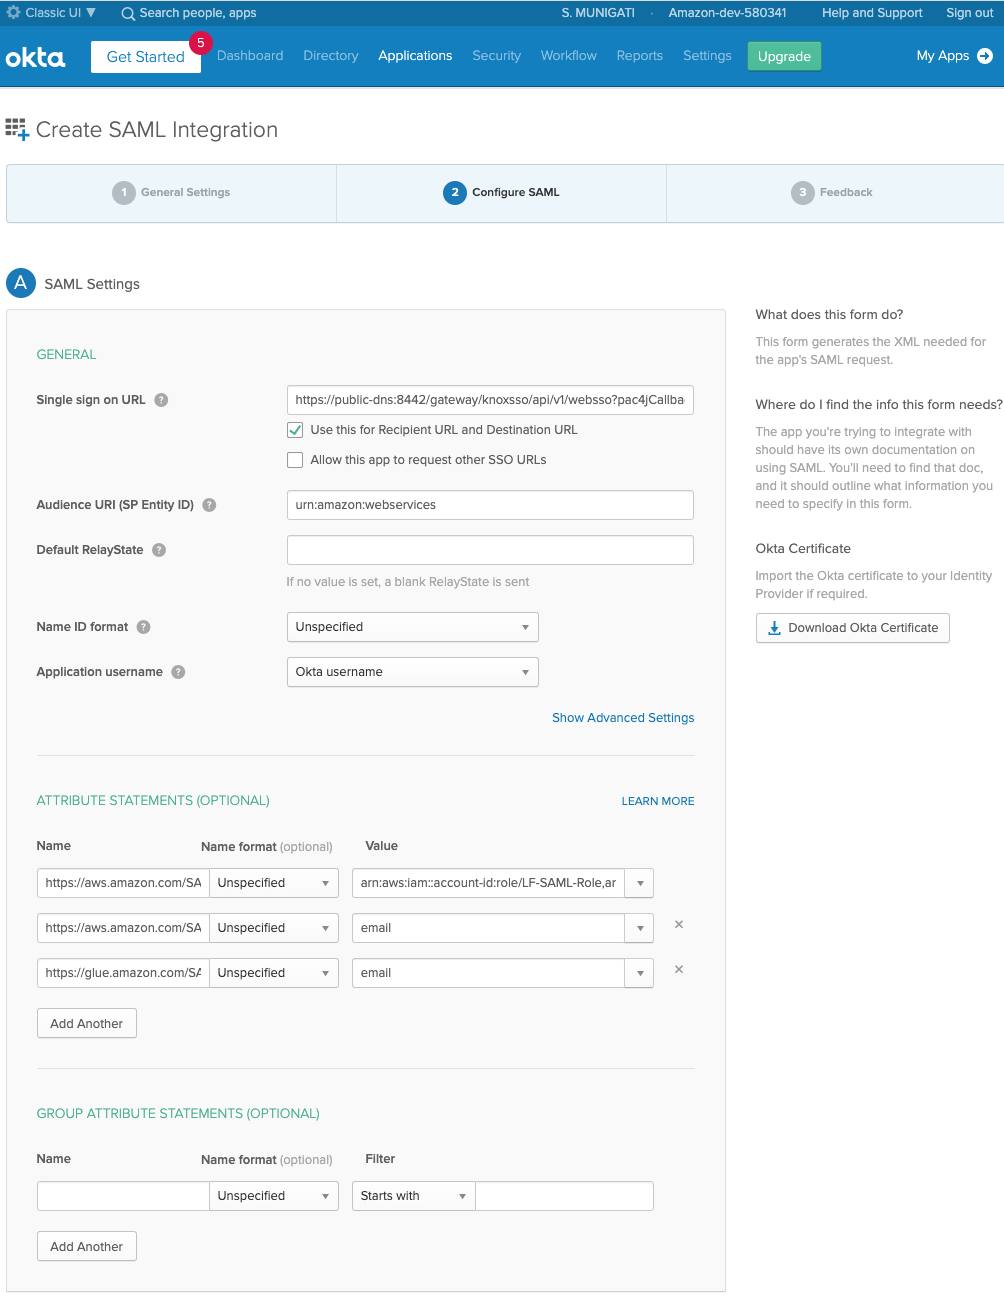
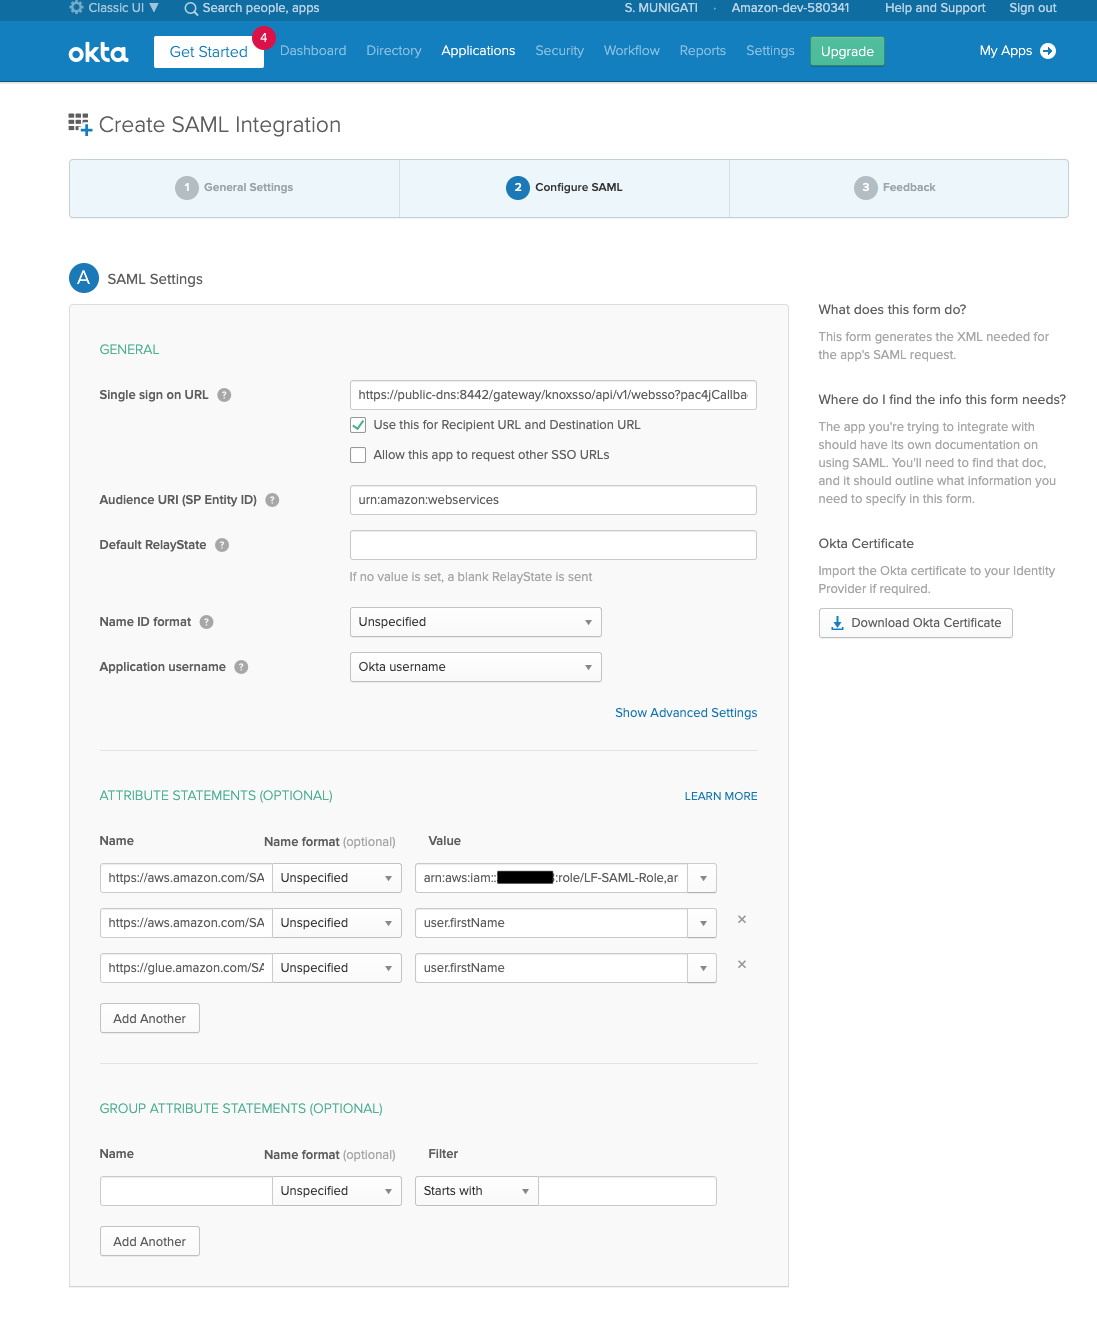
Updated the instructions based on feedback from Phoenix workshop.

diff --git a/website/content/60-advanced/601-emr-integration/6013-before-you-access-data/60131-grant-permissions.md b/website/content/60-advanced/601-emr-integration/6013-before-you-access-data/60131-grant-permissions.md
@@ -11,7 +11,8 @@ weight = 60131
   <br/><br/>
   You can create additional users in Auth0/Okta and define different permissions in AWS Lake Formation if you want.
 </div> 
-  <br/><br/>To set permissions for this user, navigate to the AWS Lake Formation service console as <b> lf-admin </b> user .  
+  <br/><br/>To set permissions for this user, login into AWS console as <b> lf-admin </b> user (default password: Password1!), you can get console login url from CloudFormation template output as shown below. 
+  <img src="/images/cfn-complete-3.png" style="margin:15px 0px; border:1px solid black"/> 
   <br/>
 <div>
    <ol>
@@ -20,15 +21,15 @@ weight = 60131
       <li>Then click on <b>Grant</b> button <img src="/images/DataPermissions-Grant.png" style="margin:15px 0px; border:1px solid black"/>
       </li>
       <li>On the window that pops up
-        <br/>Fill out Active Directory users and groups (EMR beta only) with  <br/><br/>arn:aws:iam::<b>account-id</b>:saml-provider/auth0SAMLProvider:user/<b>aws-lfemr-developer</b> in case of Auth0 <br/><br/> <b>OR</b> <br/><br/> arn:aws:iam::<b>account-id</b>:saml-provider/oktaSAMLProvider:user/<b>aws-lfemr-developer</b> in case of Okta, 
+        <br/>Fill out Active Directory users and groups (EMR beta only) with  <br/><br/>arn:aws:iam::<b style="color:red">account-id</b>:saml-provider/auth0SAMLProvider:user/<b>aws-lfemr-developer</b> in case of Auth0 <br/><br/> <b>OR</b> <br/><br/> arn:aws:iam::<b style="color:red">account-id</b>:saml-provider/oktaSAMLProvider:user/<b>aws-lfemr-developer</b> in case of Okta, 
         <br/><br/>Choose <b>tpc</b> for the database and select <i>dl_tpc_web_page</i> and <i>dl_tpc_web_sales</i> as the tables with <b>Select</b> as the only Table permission.<br/>
-        <br/><b>Note:</b> Replace <b>account-id</b> with your AWS account-id.
+        <br/><b>Note:</b> Replace <b style="color:red">account-id</b> with your AWS account-id.
         <br/><b>Note:</b> Please ignore the tables that start with an underscore, those are temp tables.<img src="/images/lf-emr-grant-SELECT-twotables.png" style="margin:15px 0px; border:1px solid black"/></li>
       <li>Leave the <b> Grantable permissions </b> unselected and click on the <b>Grant</b> button.</li>
       
       
    <li> Repeat Step 1, 2  but this time give the user SELECT on only four columns on <b> dl_tpc_customer </b> table as show in below screen and under Column - optionl drop down select <b>Include columns</b> and under Include columns dropdown select these four column <i>c_first_sales_date_sk, c_first_name,c_last_name,c_first_shipto_date_sk </i> one at time with <b>Select</b> as the only Table permission.<br/>
-        <br/><b>Note:</b> Replace <b>account-id</b> with your AWS account-id.
+        <br/><b>Note:</b> Replace <b style="color:red">account-id</b> with your AWS account-id.
         <br/><b>Note:</b> Please ignore the tables that start with an underscore, those are temp tables.<img src="/images/lf-emr-grant-SELECT-columns.png" style="margin:15px 0px; border:1px solid black"/></li>
    <li>Leave the <b> Grantable permissions </b> unselected and click on the <b>Grant</b> button.</li>
                 

diff --git a/website/content/60-advanced/601-emr-integration/6014-verify-access/60142-emr-notebook.md b/website/content/60-advanced/601-emr-integration/6014-verify-access/60142-emr-notebook.md
@@ -18,7 +18,7 @@ In order to access the notebook application, you must first ensure that your clu
       <li> Click on <b>Security groups for Master</b> link </li>
       <img src="/images/masternode-securith-group.png" title="Master Node Security" style="margin:15px 0px; border:1px solid black"/>
       <li> Select <b>ElasticMapReduce-master</b> security group. Under Inbound tab click on Edit and Add New Inbound Rule to allow traffic ( Type: Custom TPC) from your computer IP on port <b>8442</b> (Make sure you are not on your VPN) and click <b>Save</b> </li> 
-       <br/> <b>Note:</b> The following instructions only work if you are NOT on VPN. Please Turn off your VPN.
+       <br/> <b>Note:</b>Please Turn off your VPN, sometimes high levels ports are blocked by VPN.
       <img src="/images/1mastersecuritygroup8442.png" title="Master Security Group" style="margin:15px 0px; border:1px solid black"/>
       <img src="/images/2mastersecuritygroup8442.png" title="Add Rule" style="margin:15px 0px; border:1px solid black"/>
       <li>To create an EMR notebook </li>
@@ -32,12 +32,14 @@ In order to access the notebook application, you must first ensure that your clu
       <li>Select an existing EMR cluster integrated with Lake Formation and Choose cluster.</li>
       <li>Select Create notebook to create the notebook. Notebook will get created and wait for it go <b>Ready</b> state</li>
       <img src="/images/4notebook-in-readystatus.png" title="Ready State" style="margin:15px 0px; border:1px solid black"/>
+      <li>Clear the browser cache/cookies as your previous login into IdP account is still in the session <b>OR</b> Open in Incognito mode if you are using Chrome. </li>
       <li>Once Notebook in Ready state, Click <b>Open In Jupyter</b> or <b>JupyterLab</b>, You will be redirected to the Proxy Agent on the Amazon EMR cluster. Once you’ve accepted the Proxy Agent’s certificate, your browser will redirect you to your Identity Provider (IdP) to authenticate. Once authenticated with user <b> aws-lfemr-developer@somecompany.com</b> and password you provided, you will be redirected to the EMR notebook </li>
       
       <br/> <b>Note:</b> In case of Okta, you have to choose a forgot password question for first time. 
       <br/> <b>Note:</b> Sometimes Auth0/Okta IPs may be blocked by your VPN, so make sure to turn off VPN.
             
-      <img src="/images/okta-login.png" title="Auth0 Authentication" style="margin:15px 0px; border:1px solid black"/>
+      <img src="/images/okta-login.png" title="Okta Authentication" style="margin:15px 0px; border:1px solid black"/>
+      <img src="/images/auth0-authenticate.png" title="Auth0 Authentication" style="margin:15px 0px; border:1px solid black"/>
              
       <li>Download an existing EMR Notebook ( LF-EMR-Jupyter.ipynb file ) from your S3 bucket (bucket name can be found in CloudFormation Stack Output, <b>lf-notebooks-bucket-accountId </b> ) into local computer.</li> 
        <img src="/images/emr-jupyternotebookins3.png" title="Download Jupyter Notebook" style="margin:15px 0px; border:1px solid black"/>

diff --git a/website/content/60-advanced/601-emr-integration/6014-verify-access/60141-zeppelin.md b/website/content/60-advanced/601-emr-integration/6014-verify-access/60141-zeppelin.md
@@ -17,18 +17,21 @@ Finish the following steps in order to access the Zeppelin notebook and execute 
 
 <ol>
   
-   <li> On the Amazon EMR Console click on Clusters and select the cluster which got created through CloudFormation and click on View Details  </li>
+   <li> On the Amazon EMR Console click on Clusters and select the cluster which got created through CloudFormation ( <b>LF-EMRCluster</b> ) and click on View Details  </li>
    <li> Click on <b>Security groups for Master</b> link </li>
    <img src="/images/masternode-securith-group.png" title="Master Node Security" style="margin:15px 0px; border:1px solid black"/>
    <li> Select <b>ElasticMapReduce-master</b> security group. Under Inbound tab click on Edit and Add New Inbound Rule to allow traffic ( Type: Custom TPC) from your computer IP on port <b>8442</b> and click <b>Save</b> </li> 
-   <br/> <b>Note:</b> The following instructions only work if you are NOT on VPN. Please Turn off your VPN.
+   <br/> <b>Note:</b> Please Turn off your VPN, sometimes high levels ports are blocked by VPN.
    <img src="/images/1mastersecuritygroup8442.png" title="Add Rule" style="margin:15px 0px; border:1px solid black"/>
    <img src="/images/2mastersecuritygroup8442.png" title="Add Rule" style="margin:15px 0px; border:1px solid black"/>
+   <li>Clear the browser cache/cookies as your previous login into IdP account is still in the session <b>OR</b> Open in Incognito mode if you are using Chrome. </li>
    <li>To access Apache Zeppelin, copy the <b>EMRMasterNodeDNS</b> value from CloudFormation stack output. Using your browser, navigate to https://<b>EMRMasterNodeDNS</b>:8442/gateway/default/zeppelin/. Ensure the URL includes the trailing slash at the end </li> 
    <li>Once the Proxy Agent’s certificate is accepted, your browser redirects you to your Identity Provider (IdP) login page to authenticate. Once authenticated with user <b> aws-lfemr-developer@somecompany.com</b> and password you provided, you will be redirected to Zeppelin.</li>
    <br/> <b>Note:</b> In case of Okta, you have to choose a forgot password question for first time. 
   
    <img src="/images/auth0-authenticate.png" title="Auth0 Authentication" style="margin:15px 0px; border:1px solid black"/>
+   <img src="/images/okta-login.png" title="Okta Authentication" style="margin:15px 0px; border:1px solid black"/>
+   
    <img src="/images/zeppelinnotebook.png" title="Import Zepplin Notebook" style="margin:15px 0px; border:1px solid black"/>    
    <li>Download an existing Zeppelin Notebook ( LF-EMR-Zeppelin.json  ) from your S3 bucket (bucket name can be found in CloudFormation Stack Output, <b>lf-notebooks-bucket-accountId </b> ) into local computer.</li> 
    <img src="/images/emr-zeppelinnotebookins3.png" title="Download Zeppelin Notebook" style="margin:15px 0px; border:1px solid black"/>

diff --git a/website/content/60-advanced/601-emr-integration/6011-trust/60111-okta/601111-saml2.md b/website/content/60-advanced/601-emr-integration/6011-trust/60111-okta/601111-saml2.md
@@ -14,7 +14,7 @@ autoNav = true
    
    <ol>
    
-   <li> Once you login into Okta account, click on <b>Admin</b> button. </li>
+   <li> Login into Okta account using assigned domain name to your account, you can get your Okta domain name from Activate email you received. (E.g. https://dev-580341.okta.com/login/login.htm in my case), you may have to click on <b>Admin</b> button depending on how Okta authenticates. </li>
          <img src="/images/okta-clickadmin.png" style="margin:15px 0px; border:1px solid black"/> 
        <li> If you are using the Developer Console, you need to first switch to the Admin Console (Classic UI). If you see Developer Console in the top left of the page, click it and select Classic UI to switch.</li>
         
@@ -42,14 +42,14 @@ autoNav = true
            
        <li>On the SAML Settings page.</li>
          <ul>
-            <li>Paste the following URL into the Single sign on URL field</li>
-             <pre> https://public-dns:8442/gateway/knoxsso/api/v1/websso?pac4jCallback=true&client_name=SAML2Client</pre> 
+            <li>Paste the following URL into the Single sign on URL field
+            <pre>https://public-dns:8442/gateway/knoxsso/api/v1/websso?pac4jCallback=true&client_name=SAML2Client</pre> </li>
             <li>For the Audience URI (SP Entity ID) box, fill in <b>urn:amazon:webservices</b> </li> 
-            <li>In the Attribute Statements section, add three attribute statements as demonstrated in the following procedure, make sure to replace <b>account-id</b> with your AWS AccountId
+            <li>In the Attribute Statements section, add three attribute statements as demonstrated in the following procedure, make sure to replace <b style="color:red">account-id</b> with your AWS AccountId
               <ol>
-                <li><b>Name</b>: https://aws.amazon.com/SAML/Attributes/Role            <b>Value</b>: arn:aws:iam::account-id:role/LF-SAML-Role,arn:aws:iam::account-id:saml-provider/oktaSAMLProvider </li>
-                <li><b>Name</b>: https://aws.amazon.com/SAML/Attributes/RoleSessionName  <b>Value</b>: email </li>
-                <li><b>Name</b>: https://glue.amazon.com/SAML/Attributes/UserName       <b>Value</b>:  email </li>
+                <li><b>Name</b>: https://aws.amazon.com/SAML/Attributes/Role            <b>Value</b>: arn:aws:iam::<b style="color:red">account-id</b>:role/LF-SAML-Role,arn:aws:iam::<b style="color:red">account-id</b>:saml-provider/oktaSAMLProvider </li>
+                <li><b>Name</b>: https://aws.amazon.com/SAML/Attributes/RoleSessionName  <b>Value</b>: user.firstname </li>
+                <li><b>Name</b>: https://glue.amazon.com/SAML/Attributes/UserName       <b>Value</b>:  user.firstname </li>
                </ol>
               </li>
          </ul>

diff --git a/website/content/60-advanced/601-emr-integration/6011-trust/60110-auth0/601101-saml2.md b/website/content/60-advanced/601-emr-integration/6011-trust/60110-auth0/601101-saml2.md
@@ -16,7 +16,7 @@ autoNav = true
    
     <li>Log in to the Auth0 account. <br/>Select Users & Roles on left navigation menu and select Users and click on <b>CREATE USER</b> button. </li>
     <img src="/images/auth0-createuser.png" title="Create application" style="margin:15px 0px; border:1px solid black"/>
-    <li>Create a new user with email as <b>lf-emr-developer@somecompany.com</b> and enter Password and click on <b> CREATE </b> button. This is the user we will use to authenticate and authorize AWS Lake Formation tables and columns for fine grain access.</li>
+    <li>Create a new user with email as <b>aws-lfemr-developer@somecompany.com</b> and enter Password and click on <b> CREATE </b> button. This is the user we will use to authenticate and authorize AWS Lake Formation tables and columns for fine grain access.</li>
     <img src="/images/auth0-enteruserdetails.png" title="Create application" style="margin:15px 0px; border:1px solid black"/>
     <li>Create a new Application and enter "AWS SSO" for Name and Select Regular Web Application as application type and click on Create Button
     
@@ -67,14 +67,14 @@ autoNav = true
    To create Rule, select Rules on left navigation on your Auth0 Account, select Empty rule and enter following function definition and name the rule as <b>"LF-Rule"</b> and save the changes.
    
    <br/><br/>
-   Replace the <b>account-id</b> with the AWS Account Id
+   Replace the <b style="color:red">account-id</b> with the AWS Account Id
    
    <br/><br/>
    
    <pre>
    
    function (user, context, callback) {
-         user.awsRole = 'arn:aws:iam::account-id:role/LF-SAML-Role,arn:aws:iam::account-id:saml-provider/auth0SAMLProvider';
+         user.awsRole = 'arn:aws:iam::<b style="color:red">account-id</b>:role/LF-SAML-Role,arn:aws:iam::<b style="color:red">account-id</b>:saml-provider/auth0SAMLProvider';
          // the username must not contain "@" - as it is not a valid Linux username
          user.glueUser = user.name.replace(/@.*/, ''); 
         

diff --git a/website/content/60-advanced/601-emr-integration/6012-cloudformation.md b/website/content/60-advanced/601-emr-integration/6012-cloudformation.md
@@ -10,16 +10,20 @@ weight = 6012
    
  
 <br/>
-
+    Now that we finished setting up Identity Provider Trust, it's time to create Amazon EMR cluster integrating with AWS Lake Formation.
+    
     Upon successful completion of the following CloudFormaiton template, it will create the following IAM resources:
    <ul>
         <li>Roles Needed for AWS Lake Formation Integration <a href="https://docs.aws.amazon.com/emr/latest/ManagementGuide/emr-lf-iam-role.html">Overview of the IAM Roles for Lake Formation</a></li>
+        <li>EMR Security Configuration</li>
         <li>Amazon EMR Cluster</li>
         
    </ul>
    
    <br/>
-        <b>NOTE:</b> This template is created for us-east-1 region (N.Virginia) and will not work in other regions. <br />
+   
+        Logout and login back into AWS console using TeamRole ( If Hashcode given, use chapter <a href="/30-howtostart/302-aws-event.html" > AWS Event </a> to login) or as Administrator you created in <a href="/30-howtostart/301-self-paced.html" > Self Paced Labs </a>
+        <br/><br/><b>NOTE:</b> This template is created for us-east-1 region (N.Virginia) and will not work in other regions. <br />
         <br/>
       
         <br/><br/><b style="color:red !important;">NOTE:</b> Please make a note of Identity Provider metadata file path in S3 which you have uploded part of Configure Trust Relationship exersie, we need it during stack creation as one of the input also make sure to select proper SAMLProviderName depending on whether you are trying with <b>Auth0 </b> or <b>Okta</b> provider .

diff --git a/website/content/60-advanced/601-emr-integration/6011-trust/60110-auth0/601103-upload-metadata.md b/website/content/60-advanced/601-emr-integration/6011-trust/60110-auth0/601103-upload-metadata.md
@@ -15,7 +15,7 @@ chapter = true
    <ol>
    <li>Click on S3 bucket <b>lf-metadata-bucket-account-id</b>, where <b>account-id</b> is your AWS account in S3 Console.</li>
    <img src="/images/s3metadatabucket.png" title="S3 Metadata Bucket" style="margin:15px 0px; border:1px solid black"/>
-   <li>Upload metadata xml file you downloaded from <b>Auth0</b> for AWS SSO Application you created in the previous chapter into S3 bucket you selected above, and make a note of S3 path to this file 
+   <li>Upload metadata xml file (<b>Note:</b> Make sure file name does not have any special characters or spaces etc, Amazon EMR cluster creation will fail with bootstrap errors if the file name has any spaces or special characters )  you downloaded from <b>Auth0</b> for AWS SSO Application you created in the previous chapter into S3 bucket you selected above, and make a note of S3 path to this file 
    (by copying the address to this file in notepad or some text editor) as we need this during AWS CloudFormation Stack creation as one of the input. </li>
    
    <img src="/images/s3metadataupload.png" title="S3 Metadata Upload" style="margin:15px 0px; border:1px solid black"/>

diff --git a/website/content/60-advanced/601-emr-integration/6011-trust/60111-okta/601113-upload-metadata.md b/website/content/60-advanced/601-emr-integration/6011-trust/60111-okta/601113-upload-metadata.md
@@ -15,7 +15,7 @@ chapter = true
    <ol>
       <li>Click on S3 bucket <b>lf-metadata-bucket-account-id</b>, where <b>account-id</b> is your AWS account in S3 Console.</li>
       <img src="/images/s3metadatabucket.png" title="S3 Metadata Bucket" style="margin:15px 0px; border:1px solid black"/>
-      <li>Upload metadata xml file you downloaded from <b>Okta</b> for Lake-Formation Application into S3 bucket you selected above, and make a note of S3 path to this file 
+      <li>Upload metadata xml file (<b>Note:</b> Make sure file name does not have any special characters or spaces etc, Amazon EMR cluster creation will fail with bootstrap errors if the file name has any spaces or special characters ) you downloaded from <b>Okta</b> for Lake-Formation Application into S3 bucket you selected above, and make a note of S3 path to this file 
       as we need this during AWS CloudFormation Stack creation as one of the input. </li>
       
       <img src="/images/s3metadataupload.png" title="S3 Metadata Upload" style="margin:15px 0px; border:1px solid black"/>

diff --git a/website/content/60-advanced/601-emr-integration/6011-trust/60111-okta/601112-saml-provider-in-aws.md b/website/content/60-advanced/601-emr-integration/6011-trust/60111-okta/601112-saml-provider-in-aws.md
@@ -12,8 +12,8 @@ chapter = true
    <h5>In the IAM console, create a SAML identity provider entity.</h5>
   
    <ol> 
-      <li> Logout from the current AWS console and use the sign in link from the CloudFormation output to login as <b><i>lf-admin</i></b> user (default password: Password1!).</li>
-      <li>Open the AWS IAM console at <a
+    <li>Login into AWS console ( If Hashcode given use chapter <a href="/30-howtostart/302-aws-event.html" > AWS Event </a> to login) or as Administrator you created in <a href="/30-howtostart/301-self-paced.html" > Self Paced Labs </a></li>
+    <li>Open the AWS IAM console at <a
                      href="https://console.aws.amazon.com/iam/home?region=us-east-1">https://console.aws.amazon.com/iam</a>.</li>
     
    <li>In the navigation pane, choose <b>Identity Providers</b>, <b>Create Provider</b>. </li>

diff --git a/website/content/30-howtostart/301-self-paced/_index.md b/website/content/30-howtostart/301-self-paced/_index.md
@@ -12,8 +12,8 @@ weight = 301
   <br><br/>
   If you've already signed up for Amazon Web Services (AWS), you can jump to the next section. If you haven't signed up for AWS account yet, or if you need assistance, complete the following tasks to get set up your AWS account for the workshop:
   <ul>
-    <li><a href="30-howtostart/301-self-paced/3010-sign-up-aws.html">Sign Up for AWS</a></li>
-    <li><a href="30-howtostart/301-self-paced/3011-create-iam-account.html">Create an IAM User</a></li>
+    <li><a href="301-self-paced/3010-sign-up-aws.html">Sign Up for AWS</a></li>
+    <li><a href="301-self-paced/3011-create-iam-account.html">Create an IAM User</a></li>
   </ul>
 </div>
 <div style="text-align: justify">

diff --git a/website/content/60-advanced/601-emr-integration/6011-trust/60110-auth0/601102-saml-provider-in-aws.md b/website/content/60-advanced/601-emr-integration/6011-trust/60110-auth0/601102-saml-provider-in-aws.md
@@ -12,7 +12,7 @@ chapter = true
    <h5>In the IAM console, create a SAML identity provider entity.</h5>
    
    <ol> 
-    <li> Logout from the current AWS console and use the sign in link from the CloudFormation output to login as <b><i>lf-admin</i></b> user (default password: Password1!).</li>
+    <li>Login into AWS console ( If Hashcode given use chapter <a href="/30-howtostart/302-aws-event.html" > AWS Event </a> to login) or as Administrator you created in <a href="/30-howtostart/301-self-paced.html" > Self Paced Labs </a></li>
     <li>Open the AWS IAM console at <a
                    href="https://console.aws.amazon.com/iam/home?region=us-east-1">https://console.aws.amazon.com/iam</a>.</li>
   

diff --git a/website/content/60-advanced/601-emr-integration/6011-trust/60110-auth0/_index.md b/website/content/60-advanced/601-emr-integration/6011-trust/60110-auth0/_index.md
@@ -8,6 +8,6 @@ autoNav = true
 <center><h3>Trust Relation with Auth0</h3></center>
 
 <div style="text-align: justify">
-    <a href="https://auth0.com/">Auth0</a> is a flexible, drop-in solution to add authentication and authorization services to your applications. Follow these steps to create a free Auth0 account and setup trust relationship between your new account and Lake Formation.
+    <a href="https://auth0.com/">Auth0</a> is a flexible, drop-in solution to add authentication and authorization services to your applications. Follow these steps to create a free Auth0 account and setup trust relationship between your new account and AWS.
     {{% children showhidden="false" %}}
 </div>
